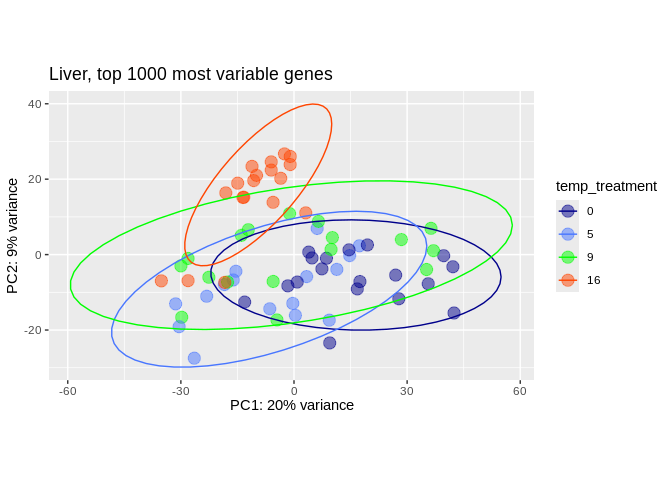
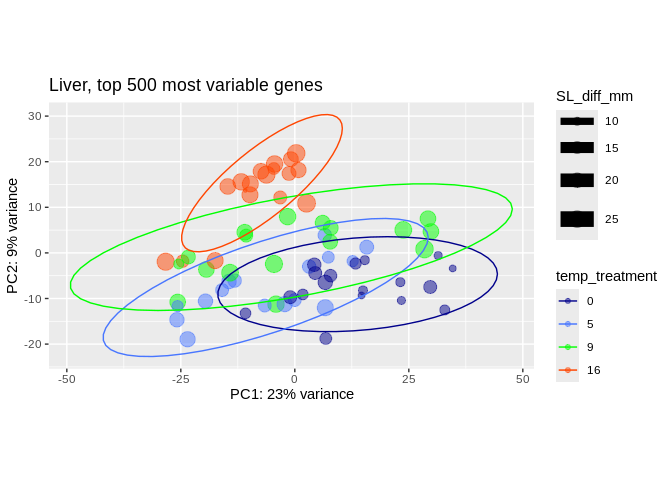
added experimental metadata to sample_info, added size to plots

diff --git a/code/07-cod-RNAseq-DESeq2.md b/code/07-cod-RNAseq-DESeq2.md
@@ -11,9 +11,9 @@ Kathleen Durkin
     data</a>
   - <a href="#12-count-data-munging" id="toc-12-count-data-munging">1.2
     Count data munging</a>
-  - <a href="#13-import-sample-metadata-sheet"
-    id="toc-13-import-sample-metadata-sheet">1.3 Import sample metadata
-    sheet</a>
+  - <a href="#13-import-sample-metadata-sheets"
+    id="toc-13-import-sample-metadata-sheets">1.3 Import sample metadata
+    sheets</a>
   - <a href="#14-sample-metadata-munging"
     id="toc-14-sample-metadata-munging">1.4 Sample metadata munging</a>
 - <a href="#2-preliminary-pca-visualization-liver-tissue"
@@ -157,6 +157,8 @@ colnames(cod_counts_data) <- sub("kallisto_quant_", "sample_", colnames(cod_coun
 # Reorder the coumns into alphabetical order (to make it easier to create an associated metadata spreadsheet)
 cod_counts_data <- cod_counts_data[, order(colnames(cod_counts_data))]
 
+cod_sample_names <- names(cod_counts_data)
+
 head(cod_counts_data)
 ```
 
@@ -266,11 +268,37 @@ head(cod_counts_data)
     XM_060048099.1              16              20
     XM_060047738.1               0               0
 
-## 1.3 Import sample metadata sheet
+``` r
+cod_sample_names
+```
+
+     [1] "sample_1"         "sample_10"        "sample_100"       "sample_107"      
+     [5] "sample_108"       "sample_109"       "sample_11"        "sample_110"      
+     [9] "sample_117"       "sample_118"       "sample_119"       "sample_12"       
+    [13] "sample_120"       "sample_121"       "sample_127"       "sample_128"      
+    [17] "sample_129"       "sample_13"        "sample_131"       "sample_137"      
+    [21] "sample_138"       "sample_139"       "sample_140"       "sample_147"      
+    [25] "sample_148"       "sample_149"       "sample_150"       "sample_18"       
+    [29] "sample_19"        "sample_19-G"      "sample_19-S"      "sample_2"        
+    [33] "sample_20"        "sample_20-G"      "sample_20-S"      "sample_21"       
+    [37] "sample_28"        "sample_29"        "sample_3"         "sample_30"       
+    [41] "sample_31"        "sample_37"        "sample_38"        "sample_39"       
+    [45] "sample_4"         "sample_40"        "sample_41"        "sample_47"       
+    [49] "sample_48"        "sample_49"        "sample_5"         "sample_50"       
+    [53] "sample_57"        "sample_57-G"      "sample_57-S"      "sample_58"       
+    [57] "sample_58-G"      "sample_58-S"      "sample_59"        "sample_60"       
+    [61] "sample_67"        "sample_68"        "sample_69"        "sample_70"       
+    [65] "sample_78"        "sample_79"        "sample_80"        "sample_83"       
+    [69] "sample_88"        "sample_90"        "sample_91"        "sample_97"       
+    [73] "sample_98"        "sample_99"        "sample_RESUB-116" "sample_RESUB-156"
+    [77] "sample_RESUB-36"  "sample_RESUB-76"  "sample_RESUB-94" 
+
+## 1.3 Import sample metadata sheets
 
 ``` r
-# Read in the csv as a data frame
+# Read in the csv file as a data frame
 cod_sample_info_OG <- read.csv("~/project-cod-temperature/data/DESeq2_Sample_Information.csv")
+cod_experiment_alldata_OG <- read.csv("~/project-cod-temperature/data/temp-experiment.csv")
 head(cod_sample_info_OG)
 ```
 
@@ -282,22 +310,104 @@ head(cod_sample_info_OG)
     5  sample_108           108   16              9       Liver
     6  sample_109           109   16              9       Liver
 
-## 1.4 Sample metadata munging
+``` r
+head(cod_experiment_alldata_OG)
+```
+
+      Microchip.ID SL_11212022 WWT_11212022 Tank Temperature SL_12272022
+    1          620          93         8.53    1          16         101
+    2         1164          88         7.06    1          16          96
+    3         1476         102        10.70    1          16         108
+    4         9387          87         7.83    1          16          95
+    5         9407         100        11.51    1          16         117
+    6         9415          92         8.68    1          16         100
+      WWT_12272022 MortDate DissectionDate SL_mm WholeBodyWW_g TOTAL_Liver_WW_mg
+    1        11.12                  2/8/23   119         16.15            0.4945
+    2         8.64                  2/8/23   105         10.89            0.1997
+    3        12.25                  2/8/23   110         12.97            0.1715
+    4        10.16                  2/8/23   116         15.40            0.3625
+    5        14.98                  2/8/23   127         17.98            0.3482
+    6        10.96                  2/8/23   114         14.02            0.2343
+      LiverforLipids_WW_mg MuscleWWforLipids_mg GeneticSamplingCount
+    1               0.1546               0.3495                    8
+    2               0.1091               0.3328                    5
+    3               0.1107               0.3834                    4
+    4               0.1681               0.3262                    6
+    5               0.1210               0.3434                    2
+    6               0.1342               0.2776                    9
+      DissectionComments
+    1                   
+    2                   
+    3                   
+    4                   
+    5                   
+    6                   
 
 ``` r
+# Rename the "GeneticSamplingCount" column of the experimental data to "sample_number"
+cod_experiment_alldata <- cod_experiment_alldata_OG
+names(cod_experiment_alldata)[names(cod_experiment_alldata) == "GeneticSamplingCount"] <- "sample_number"
+
+# Calculate length difference and weight difference (end-beginning)
+cod_experiment_alldata$SL_diff_mm <- cod_experiment_alldata$SL_mm - cod_experiment_alldata$SL_11212022
+cod_experiment_alldata$WWT_diff_g <- cod_experiment_alldata$WholeBodyWW_g - cod_experiment_alldata$WWT_11212022
+
+# Merge the two data frames to get experimental data for all of our RNAseq'd samples.
+# This should include all rows from cod_sample_info_OG and matching rows from cod_experiment_alldata based on the shared sample_number column. Sample number duplicates (e.g. from different tissue types) should be retained.
+cod_sample_info <- merge(cod_sample_info_OG, cod_experiment_alldata, by = "sample_number", all.x = TRUE)
+
+# Reorder the data frame into alphabetical order by the sample names, so that the rows are in the same order as our count matrix columns
+cod_sample_info <- cod_sample_info[order(cod_sample_info$sample_name), ]
+
 # Again, we need to reformat so that the data in the first column becomes the row names
-cod_sample_info <- cod_sample_info_OG %>% 
-  column_to_rownames(var = "sample_name")
+rownames(cod_sample_info) <- cod_sample_info$sample_name
+
+# Remove duplicate columns (artifact of merging data frames with multiple shared columns and of maing sample_name the rownames instead of a variable)
+cod_sample_info <- subset(cod_sample_info, select=-Temperature)
+cod_sample_info <- subset(cod_sample_info, select=-Tank)
+cod_sample_info <- subset(cod_sample_info, select=-sample_name)
+
+
 head(cod_sample_info)
 ```
 
-               sample_number tank temp_treatment tissue_type
-    sample_1               1    1             16       Liver
-    sample_10             10    2             16       Liver
-    sample_100           100   15              9       Liver
-    sample_107           107   16              9       Liver
-    sample_108           108   16              9       Liver
-    sample_109           109   16              9       Liver
+               sample_number tank temp_treatment tissue_type Microchip.ID
+    sample_1               1    1             16       Liver         9443
+    sample_10             10    2             16       Liver         9518
+    sample_100           100   15              9       Liver         9483
+    sample_107           107   16              9       Liver         4236
+    sample_108           108   16              9       Liver         9416
+    sample_109           109   16              9       Liver         9481
+               SL_11212022 WWT_11212022 SL_12272022 WWT_12272022 MortDate
+    sample_1            99        10.54         108        12.94         
+    sample_10           95         9.45         105        12.67         
+    sample_100          70         4.54          78         5.23         
+    sample_107          94         9.15         104        11.44         
+    sample_108          81         6.26          91         7.87         
+    sample_109          89         7.77          95         9.49         
+               DissectionDate SL_mm WholeBodyWW_g TOTAL_Liver_WW_mg
+    sample_1           2/8/23   114         14.39            0.0896
+    sample_10          2/8/23   120         16.22            0.3854
+    sample_100         2/9/23    93          8.33            0.2558
+    sample_107         2/9/23   119         16.41            0.5612
+    sample_108         2/9/23   106         11.67            0.3650
+    sample_109         2/9/23   116         11.45            0.3088
+               LiverforLipids_WW_mg MuscleWWforLipids_mg DissectionComments
+    sample_1                 0.0704               0.3899      lipid inserts
+    sample_10                0.1285               0.2967                   
+    sample_100               0.1143               0.3483                   
+    sample_107               0.1503               0.3322                   
+    sample_108               0.1125               0.3612                   
+    sample_109               0.1090               0.3062                   
+               SL_diff_mm WWT_diff_g
+    sample_1           15       3.85
+    sample_10          25       6.77
+    sample_100         23       3.79
+    sample_107         25       7.26
+    sample_108         25       5.41
+    sample_109         27       3.68
+
+## 1.4 Sample metadata munging
 
 ``` r
 # Factor variables
@@ -312,23 +422,7 @@ cod_sample_info$tissue_type <- factor(cod_sample_info$tissue_type)
 # BIPLOT outliers:
 cod_sample_info <- cod_sample_info[!(row.names(cod_sample_info) %in% c("sample_92", "sample_149", "sample_129")),]
 cod_counts_data <- as.matrix(subset(cod_counts_data, select=-c(sample_149, sample_129)))
-# coldata %>% dplyr::count(group)
-# all(colnames(cts) %in% rownames(coldata))
-# 
-# # Remove sample 92 (for now, sample data is missing)
-# cod_sample_info <- cod_sample_info[rownames(cod_sample_info) != "sample_92", ]
-head(cod_sample_info)
-```
 
-               sample_number tank temp_treatment tissue_type
-    sample_1               1    1             16       Liver
-    sample_10             10    2             16       Liver
-    sample_100           100   15              9       Liver
-    sample_107           107   16              9       Liver
-    sample_108           108   16              9       Liver
-    sample_109           109   16              9       Liver
-
-``` r
 # Check that the column names of our count data match the row names of our sample info sheet
 ncol(cod_counts_data)
 ```
@@ -391,14 +485,23 @@ plotDispEsts(dds_L)
 # top 500 most variable genes
 pca_L_500<- plotPCA(vst(dds_L), intgroup = c("temp_treatment"), returnData=TRUE)
 percentVar_L_500 <- round(100*attr(pca_L_500, "percentVar"))
+# merge with metadata sheet so we can plot using other features
+pca_L_500 <- subset(pca_L_500, select=-temp_treatment) #remove the temp_treatment column, which will be a duplicate post-merge
+pca_L_500 <- merge(pca_L_500, cod_sample_info, by.x = "name", by.y = "row.names")
 
 # top 1000 most variable genes
 pca_L_1000 <- plotPCA(vst(dds_L), intgroup = c("temp_treatment"), returnData=TRUE, ntop=1000)
 percentVar_L_1000 <- round(100*attr(pca_L_1000, "percentVar"))
+# merge with metadata sheet so we can plot using other features
+pca_L_1000 <- subset(pca_L_1000, select=-temp_treatment) #remove the temp_treatment column, which will be a duplicate post-merge
+pca_L_1000 <- merge(pca_L_1000, cod_sample_info, by.x = "name", by.y = "row.names")
 
 # all genes
 pca_L_all <- plotPCA(vst(dds_L), intgroup = c("temp_treatment"), returnData=TRUE, ntop=nrow(assay(vst(dds_L))))
 percentVar_L_all <- round(100*attr(pca_L_all, "percentVar"))
+# merge with metadata sheet so we can plot using other features
+pca_L_all <- subset(pca_L_all, select=-temp_treatment) #remove the temp_treatment column, which will be a duplicate post-merge
+pca_L_all <- merge(pca_L_all, cod_sample_info, by.x = "name", by.y = "row.names")
 
 # Assign specific colors to each temperature treatment level
 temp_colors <- c(
@@ -417,6 +520,26 @@ p.L.500 <- ggplot(pca_L_500, aes(PC1, PC2, color=temp_treatment)) +
   scale_color_manual(values=temp_colors)+
   stat_ellipse()
 
+p.L.500.SLdiff <- ggplot(pca_L_500, aes(PC1, PC2, color=temp_treatment, size=SL_diff_mm)) + 
+  geom_point(alpha = 0.5) +
+  ggtitle("Liver, top 500 most variable genes") +
+  xlab(paste0("PC1: ", percentVar_L_500[1], "% variance")) +
+  ylab(paste0("PC2: ", percentVar_L_500[2], "% variance")) + 
+  coord_fixed() +
+  scale_color_manual(values = temp_colors) +
+  scale_size_continuous() +  # Add this line to control the size of points
+  stat_ellipse()
+
+p.L.500.WWTdiff <- ggplot(pca_L_500, aes(PC1, PC2, color=temp_treatment, size=WWT_diff_g)) + 
+  geom_point(alpha = 0.5) +
+  ggtitle("Liver, top 500 most variable genes") +
+  xlab(paste0("PC1: ", percentVar_L_500[1], "% variance")) +
+  ylab(paste0("PC2: ", percentVar_L_500[2], "% variance")) + 
+  coord_fixed() +
+  scale_color_manual(values = temp_colors) +
+  scale_size_continuous() +  # Add this line to control the size of points
+  stat_ellipse()
+
 p.L.1000 <- ggplot(pca_L_1000, aes(PC1, PC2, color=temp_treatment)) + 
   geom_point(size=4, alpha = 5/10) +
   ggtitle("Liver, top 1000 most variable genes") +
@@ -424,6 +547,26 @@ p.L.1000 <- ggplot(pca_L_1000, aes(PC1, PC2, color=temp_treatment)) +
   ylab(paste0("PC2: ",percentVar_L_1000[2],"% variance")) + 
   coord_fixed() +
   scale_color_manual(values=temp_colors)+
+  stat_ellipse()
+
+p.L.1000.SLdiff <- ggplot(pca_L_1000, aes(PC1, PC2, color=temp_treatment, size=SL_diff_mm)) + 
+  geom_point(alpha = 0.5) +
+  ggtitle("Liver, top 1000 most variable genes") +
+  xlab(paste0("PC1: ", percentVar_L_500[1], "% variance")) +
+  ylab(paste0("PC2: ", percentVar_L_500[2], "% variance")) + 
+  coord_fixed() +
+  scale_color_manual(values = temp_colors) +
+  scale_size_continuous() +  # Add this line to control the size of points
+  stat_ellipse()
+
+p.L.1000.WWTdiff <- ggplot(pca_L_1000, aes(PC1, PC2, color=temp_treatment, size=WWT_diff_g)) + 
+  geom_point(alpha = 0.5) +
+  ggtitle("Liver, top 1000 most variable genes") +
+  xlab(paste0("PC1: ", percentVar_L_500[1], "% variance")) +
+  ylab(paste0("PC2: ", percentVar_L_500[2], "% variance")) + 
+  coord_fixed() +
+  scale_color_manual(values = temp_colors) +
+  scale_size_continuous() +  # Add this line to control the size of points
   stat_ellipse()
 
 p.L.all <- ggplot(pca_L_all, aes(PC1, PC2, color=temp_treatment)) + 
@@ -435,6 +578,26 @@ p.L.all <- ggplot(pca_L_all, aes(PC1, PC2, color=temp_treatment)) +
   scale_color_manual(values=temp_colors)+
   stat_ellipse()
 
+p.L.all.SLdiff <- ggplot(pca_L_all, aes(PC1, PC2, color=temp_treatment, size=SL_diff_mm)) + 
+  geom_point(alpha = 0.5) +
+  ggtitle("Liver, all genes") +
+  xlab(paste0("PC1: ", percentVar_L_500[1], "% variance")) +
+  ylab(paste0("PC2: ", percentVar_L_500[2], "% variance")) + 
+  coord_fixed() +
+  scale_color_manual(values = temp_colors) +
+  scale_size_continuous() +  # Add this line to control the size of points
+  stat_ellipse()
+
+p.L.all.WWTdiff <- ggplot(pca_L_all, aes(PC1, PC2, color=temp_treatment, size=WWT_diff_g)) + 
+  geom_point(alpha = 0.5) +
+  ggtitle("Liver, all genes") +
+  xlab(paste0("PC1: ", percentVar_L_500[1], "% variance")) +
+  ylab(paste0("PC2: ", percentVar_L_500[2], "% variance")) + 
+  coord_fixed() +
+  scale_color_manual(values = temp_colors) +
+  scale_size_continuous() +  # Add this line to control the size of points
+  stat_ellipse()
+
 # View PCAs
 p.L.500
 ```
@@ -442,16 +605,52 @@ p.L.500
 ![](07-cod-RNAseq-DESeq2_files/figure-gfm/unnamed-chunk-7-1.png)<!-- -->
 
 ``` r
-p.L.1000
+p.L.500.SLdiff
 ```
 
 ![](07-cod-RNAseq-DESeq2_files/figure-gfm/unnamed-chunk-7-2.png)<!-- -->
 
 ``` r
-p.L.all
+p.L.500.WWTdiff
 ```
 
 ![](07-cod-RNAseq-DESeq2_files/figure-gfm/unnamed-chunk-7-3.png)<!-- -->
+
+``` r
+p.L.1000
+```
+
+![](07-cod-RNAseq-DESeq2_files/figure-gfm/unnamed-chunk-7-4.png)<!-- -->
+
+``` r
+p.L.1000.SLdiff
+```
+
+![](07-cod-RNAseq-DESeq2_files/figure-gfm/unnamed-chunk-7-5.png)<!-- -->
+
+``` r
+p.L.1000.WWTdiff
+```
+
+![](07-cod-RNAseq-DESeq2_files/figure-gfm/unnamed-chunk-7-6.png)<!-- -->
+
+``` r
+p.L.all
+```
+
+![](07-cod-RNAseq-DESeq2_files/figure-gfm/unnamed-chunk-7-7.png)<!-- -->
+
+``` r
+p.L.all.SLdiff
+```
+
+![](07-cod-RNAseq-DESeq2_files/figure-gfm/unnamed-chunk-7-8.png)<!-- -->
+
+``` r
+p.L.all.WWTdiff
+```
+
+![](07-cod-RNAseq-DESeq2_files/figure-gfm/unnamed-chunk-7-9.png)<!-- -->
 
 ``` r
 # Export PCAs as pngs
